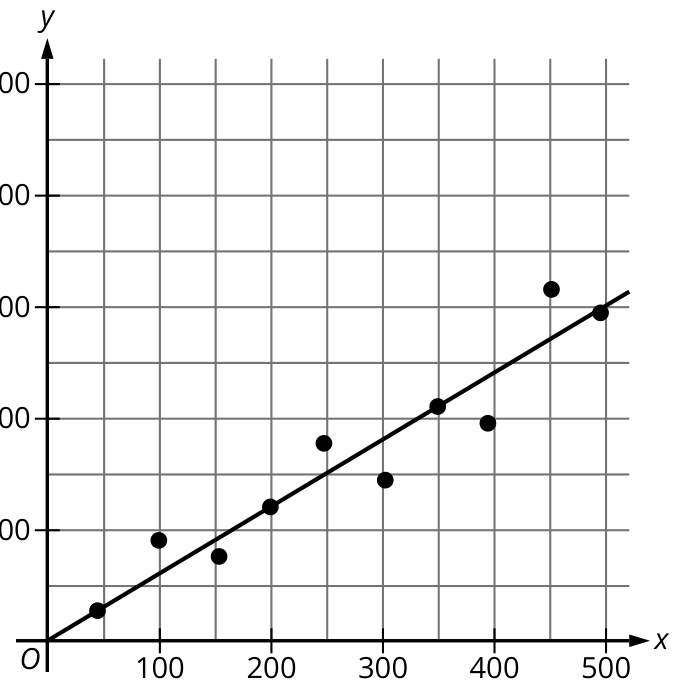
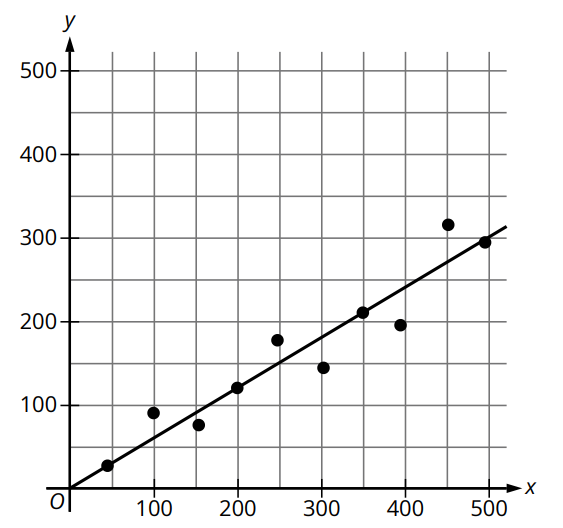
docs: add MIT license and license badge

Changed region(s): [[0.0, 0.0, 0.9964, 1.0]]

diff --git a/README.md b/README.md
@@ -16,6 +16,7 @@ A local-first **Digital SAT Practice Exam** web application built with Next.js 1
   <img src="https://img.shields.io/badge/KaTeX-008080?style=for-the-badge" alt="KaTeX" />
   <img src="https://img.shields.io/badge/Lucide_React-FF6B6B?style=for-the-badge&logo=lucide&logoColor=white" alt="Lucide React" />
   <img src="https://img.shields.io/badge/Desmos-1e824c?style=for-the-badge" alt="Desmos" />
+  <img src="https://img.shields.io/badge/License-MIT-44CC11?style=for-the-badge" alt="MIT License" />
 </div>
 
 ---
